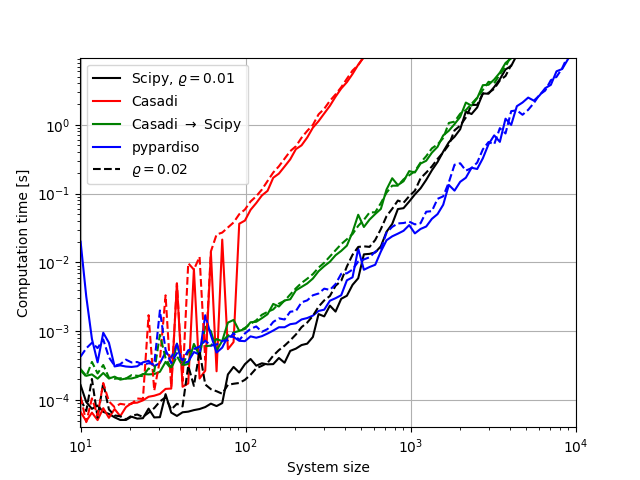
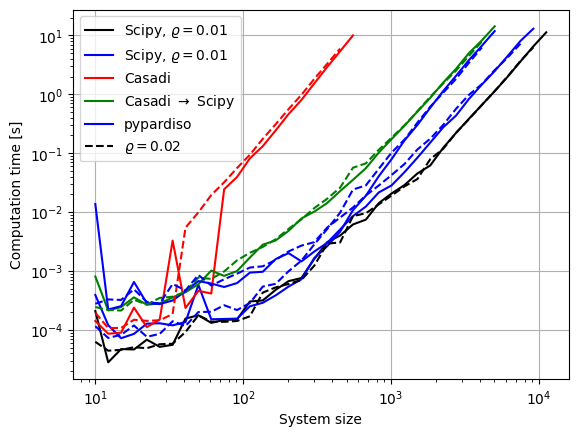
prepare extraction of linear solver

diff --git a/src/simu/examples/solver_comparison.py b/src/simu/examples/solver_comparison.py
@@ -2,6 +2,7 @@ from time import time
 from pathlib import Path
 from numpy import logspace, zeros, log10, ravel
 from numpy.random import random, seed
+from numpy.linalg import solve as np_solve
 from scipy.sparse import random as srandom, csc_array
 from scipy.sparse.linalg import spsolve
 from pypardiso import spsolve as pspsolve
@@ -9,11 +10,11 @@ from casadi import DM, solve, Sparsity
 from matplotlib import pyplot
 
 N = 25000
-NUM = 100
+NUM = 40
 TIME_LIMIT = 10
 FIG_PATH = Path(__file__).parents[3] / "doc" / "source" / "figures"
 
-SCIPY, CASADI, CAS_SCI, PYPAR = range(4)
+NUMPY, SCIPY, CASADI, CAS_SCI, PYPAR = range(5)
 
 def create_objects(size, density):
     a_s = srandom(size, size, density, format="csc", dtype=float)
@@ -21,16 +22,21 @@ def create_objects(size, density):
     b = random(size)
     sparsity = Sparsity(size, size, a_s.indptr, a_s.indices, True)
     a_c = DM(sparsity, a_s.data)
-    return a_s, a_c, b
+    a_d = a_s.todense()
+    return a_s, a_c, a_d, b
 
 def conv_solve(a, b):
     # Convert from Casadi, solve in Scipy
     a = csc_array(a)
     spsolve(a, b)
 
+def pardiso_solve(a, b):
+    return pspsolve(a, b, factorize=False)
+
 
 def main():
     def measure(a, b, which):
+        print("  ", which)
         nonlocal functions
         func = functions[which]
         if func is None:
@@ -43,15 +49,16 @@ def main():
         return result
 
     functions = {
+        NUMPY: np_solve,
         SCIPY: spsolve,
         CASADI: solve,
         CAS_SCI: conv_solve,
-        PYPAR: pspsolve}
+        PYPAR: pardiso_solve}
 
-    seed(0)  # reproducible random numbers
+    seed(2)  # reproducible random numbers
     sizes = logspace(1, log10(N), num=NUM)
     densities = [0.01, 0.02]
-    times = zeros((NUM, 4, 2))
+    times = zeros((NUM, 5, 2))
     for k, size in enumerate(sizes):
         size = int(size)
         active = [i for i, f in functions.items() if f is not None]
@@ -59,7 +66,8 @@ def main():
             times[k:, :, :] = float("nan")
             break
         for d, density in enumerate(densities):
-            a_s, a_c, b = create_objects(size, density)
+            a_s, a_c, a_d, b = create_objects(size, density)
+            times[k][NUMPY][d] = measure(a_d, b, NUMPY)
             times[k][SCIPY][d] = measure(a_s, b, SCIPY)
             times[k][CASADI][d] = measure(a_c, b, CASADI)
             times[k][CAS_SCI][d] = measure(a_c, b, CAS_SCI)
@@ -67,11 +75,13 @@ def main():
         print(k, size, ravel(times[k, :, 1]))
 
 
-    pyplot.loglog(sizes, times[:, SCIPY, 0], "k-", label="Scipy, $\\varrho=0.01$")
+    pyplot.loglog(sizes, times[:, NUMPY, 0], "k-", label="Numpy, $\\varrho=0.01$")
+    pyplot.loglog(sizes, times[:, SCIPY, 0], "b-", label="Scipy, $\\varrho=0.01$")
     pyplot.loglog(sizes, times[:, CASADI, 0], "r-", label="Casadi")
     pyplot.loglog(sizes, times[:, CAS_SCI, 0], "g-", label="Casadi $\\to$ Scipy")
     pyplot.loglog(sizes, times[:, PYPAR, 0], "b-", label="pypardiso")
-    pyplot.loglog(sizes, times[:, SCIPY, 1], "k--", label="$\\varrho=0.02$")
+    pyplot.loglog(sizes, times[:, NUMPY, 1], "k--", label="$\\varrho=0.02$")
+    pyplot.loglog(sizes, times[:, SCIPY, 1], "b--")
     pyplot.loglog(sizes, times[:, CASADI, 1], "r--")
     pyplot.loglog(sizes, times[:, CAS_SCI, 1], "g--")
     pyplot.loglog(sizes, times[:, PYPAR, 1], "b--")

diff --git a/src/simu/core/solver/linear.py b/src/simu/core/solver/linear.py
@@ -1,0 +1,69 @@
+from __future__ import annotations
+from typing import TYPE_CHECKING, Any
+from pydantic import BaseModel, Field
+from numpy import sqrt
+from numpy.linalg import norm, solve
+from scipy.sparse import diags
+from scipy.sparse.linalg import spsolve
+
+if TYPE_CHECKING:
+    from numpy.typing import NDArray
+    from scipy.sparse import csr_array
+
+class ScaledLinearSparseSolverConfig(BaseModel):
+    num_scale: int = Field(default=5, ge=0, le=10)
+    dense_limit: int = Field(default=20_000, ge=0)
+    res_tol: float = Field(default=1e-6, gt=0.0, lt=1.0)
+    norm_tol: float = Field(default=1e-4, gt=0.0, lt=1.0)
+
+
+class ScaledLinearSparseSolver:
+    def __init__(self, config: ScaledLinearSparseSolverConfig, **options: Any):
+        config = config or ScaledLinearSparseSolverConfig()
+        self.config = config.model_copy(update=options)
+
+    def solve(self, matrix: csr_array, rhs: NDArray) -> NDArray:
+        s_x = None
+        # scale system if demanded
+        if self.config.num_scale:
+            matrix, s_r, s_x = self._scale(matrix)
+            rhs = rhs @ s_r
+
+        # solve with sparse solver
+        x = spsolve(matrix, rhs)
+        error = norm(rhs - matrix @ x) / norm(rhs)
+        if error < self.config.res_tol:
+            return x if s_x is None else x @ s_x
+
+        if rhs.shape[0] > self.config.dense_limit:
+            msg = (f"Linear solver error, remaining error norm: {error:.3g}; "
+                   f"System too large (N = {rhs.shape[0]})for dense solver")
+            raise RuntimeError(msg)
+
+        # retry with dense solver
+        x = solve(matrix, rhs)
+        error = norm(rhs - matrix @ x) / norm(rhs)
+        if error < self.config.res_tol:
+            return x if s_x is None else x @ s_x
+
+        msg = f"Linear solver error, remaining error norm: {error:.3g}"
+        raise RuntimeError(msg)
+
+    def _scale(self, matrix: csr_array):
+        total_col_norms = 1
+        total_row_norms = 1
+        for i in range(self.config.num_scale):
+            col_norms = sqrt(matrix.multiply(matrix).sum(axis=0))
+            col_norms[col_norms == 0] = 1.0
+            total_col_norms = total_col_norms * col_norms
+            matrix = matrix @ diags(1.0 / col_norms)
+
+            row_norms = sqrt(matrix.multiply(matrix).sum(axis=1))
+            row_norms[row_norms == 0] = 1.0
+            total_row_norms = total_row_norms * row_norms
+            matrix = (matrix.T @ diags(1.0 / row_norms)).T
+            qlt = (sum((row_norms - 1) ** 2) +
+                   sum((col_norms - 1) ** 2)) / matrix.shape[0]
+            if qlt < self.config.norm_tol:
+                break
+        return matrix, diags(1.0 / total_row_norms), diags(1.0 / total_col_norms)

diff --git a/src/simu/core/utilities/types.py b/src/simu/core/utilities/types.py
@@ -1,7 +1,13 @@
 """This module defines types of complex data structures"""
 
+from __future__ import annotations
 from collections.abc import Mapping, MutableMapping
-from typing import Protocol, runtime_checkable
+from typing import Protocol, runtime_checkable, TYPE_CHECKING
+
+if TYPE_CHECKING:
+    from scipy.sparse import csr_array
+    from numpy.typing import NDArray
+
 
 type Map[T] = Mapping[str, T]
 """A mapping of strings to another type"""
@@ -20,4 +26,8 @@ type NestedMutMap[T] = MutMap[T | "NestedMutMap[T]"]
 class OutputIOStream(Protocol):
     """A Protocol class to describe anything that can write a string"""
     def write(self, line: str):  ...
+
+
+class LinearSolver(Protocol):
+    def solve(self, matrix: csr_array, rhs: NDArray) -> NDArray: ...
 

diff --git a/src/simu/core/solver/simulation/solver.py b/src/simu/core/solver/simulation/solver.py
@@ -270,12 +270,10 @@ class SimulationSolver:
         dx = -spsolve(dr_dx, r)
         dr = r + dr_dx @ dx
         if (nr := norm(dr)) > 0.1 * dr.shape[0]:
-            # print(f"Remaining norm: {nr:.2f} - using scipy fallback")
             dx = -scipy_spsolve(dr_dx, r)
             dr = r + dr_dx @ dx
         if (nr := norm(dr)) > 0.1 * dr.shape[0]:
-            if n < 1000:
-                # print(f"Remaining norm: {nr:.2f} - using numpy fallback")
+            if n < 10000:
                 return -solve(dr_dx.toarray(), r) @ s_x
             msg = f"Linear solver error, remaining residual: {nr:.2f}"
             raise ValueError(msg)

diff --git a/doc/source/api/solver/linearsolvers.rst b/doc/source/api/solver/linearsolvers.rst
@@ -10,6 +10,12 @@ As a sub-problem for nearly all simulation disciplines, linear systems must be s
 
 Typically, the sparsity of the system matrices is around 1 % to 2 %, slightly decreasing with size, as it is rather the number of non-zero elements per row that is constant than the absolute density.
 
+.. warning::
+
+    This entire benchmark is baloney, as the structure has a lot to say on the performance of sparse vs. dense solvers.
+    Indeed, in this example, the dense ``numpy.linalg.solve`` solver even beats the multi-core `PyPardiso`_ solver.
+    To be fair, numpy's solver manages to do efficient multi-core calculations and keep all CPU's busy.
+
 Casadi solver
 -------------
 `CasADi`_ features high performant and efficient functionality for solving differential equation systems that come with control problems, and, as a very essential part of ``SigmaMu``, we obtain Jacobian information from the library. Within the ``SigmaMu`` solvers, we hence retrieve the system matrices as ``casadi.DM`` objects. Though it is possible to solve smaller linear systems, these are not designed to be subject to larger computations.
